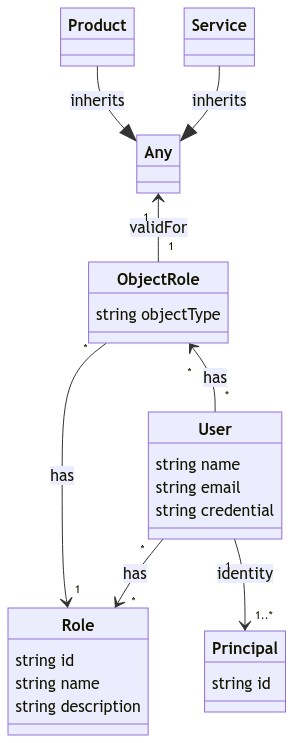
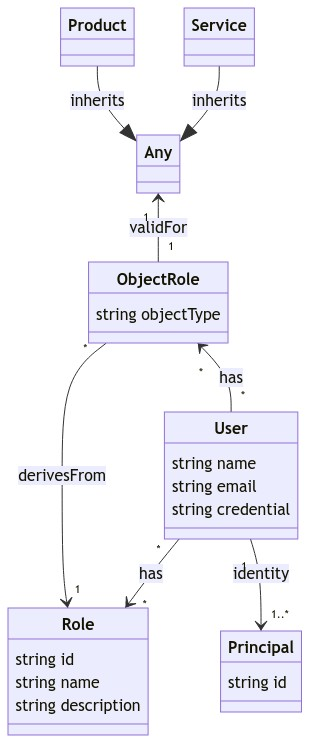
Updated user model

diff --git a/documentation/models/users.md b/documentation/models/users.md
@@ -18,7 +18,7 @@ classDiagram
     }
     User "*" --> "*" Role : has
     User "1" --> "1..*" Principal : identity
-    ObjectRole "*" --> "1" Role : has
+    ObjectRole "*" --> "1" Role : derivesFrom
     ObjectRole "*" <-- "*" User : has
     Any "1" <-- "1" ObjectRole : validFor
     Product --|> Any : inherits
